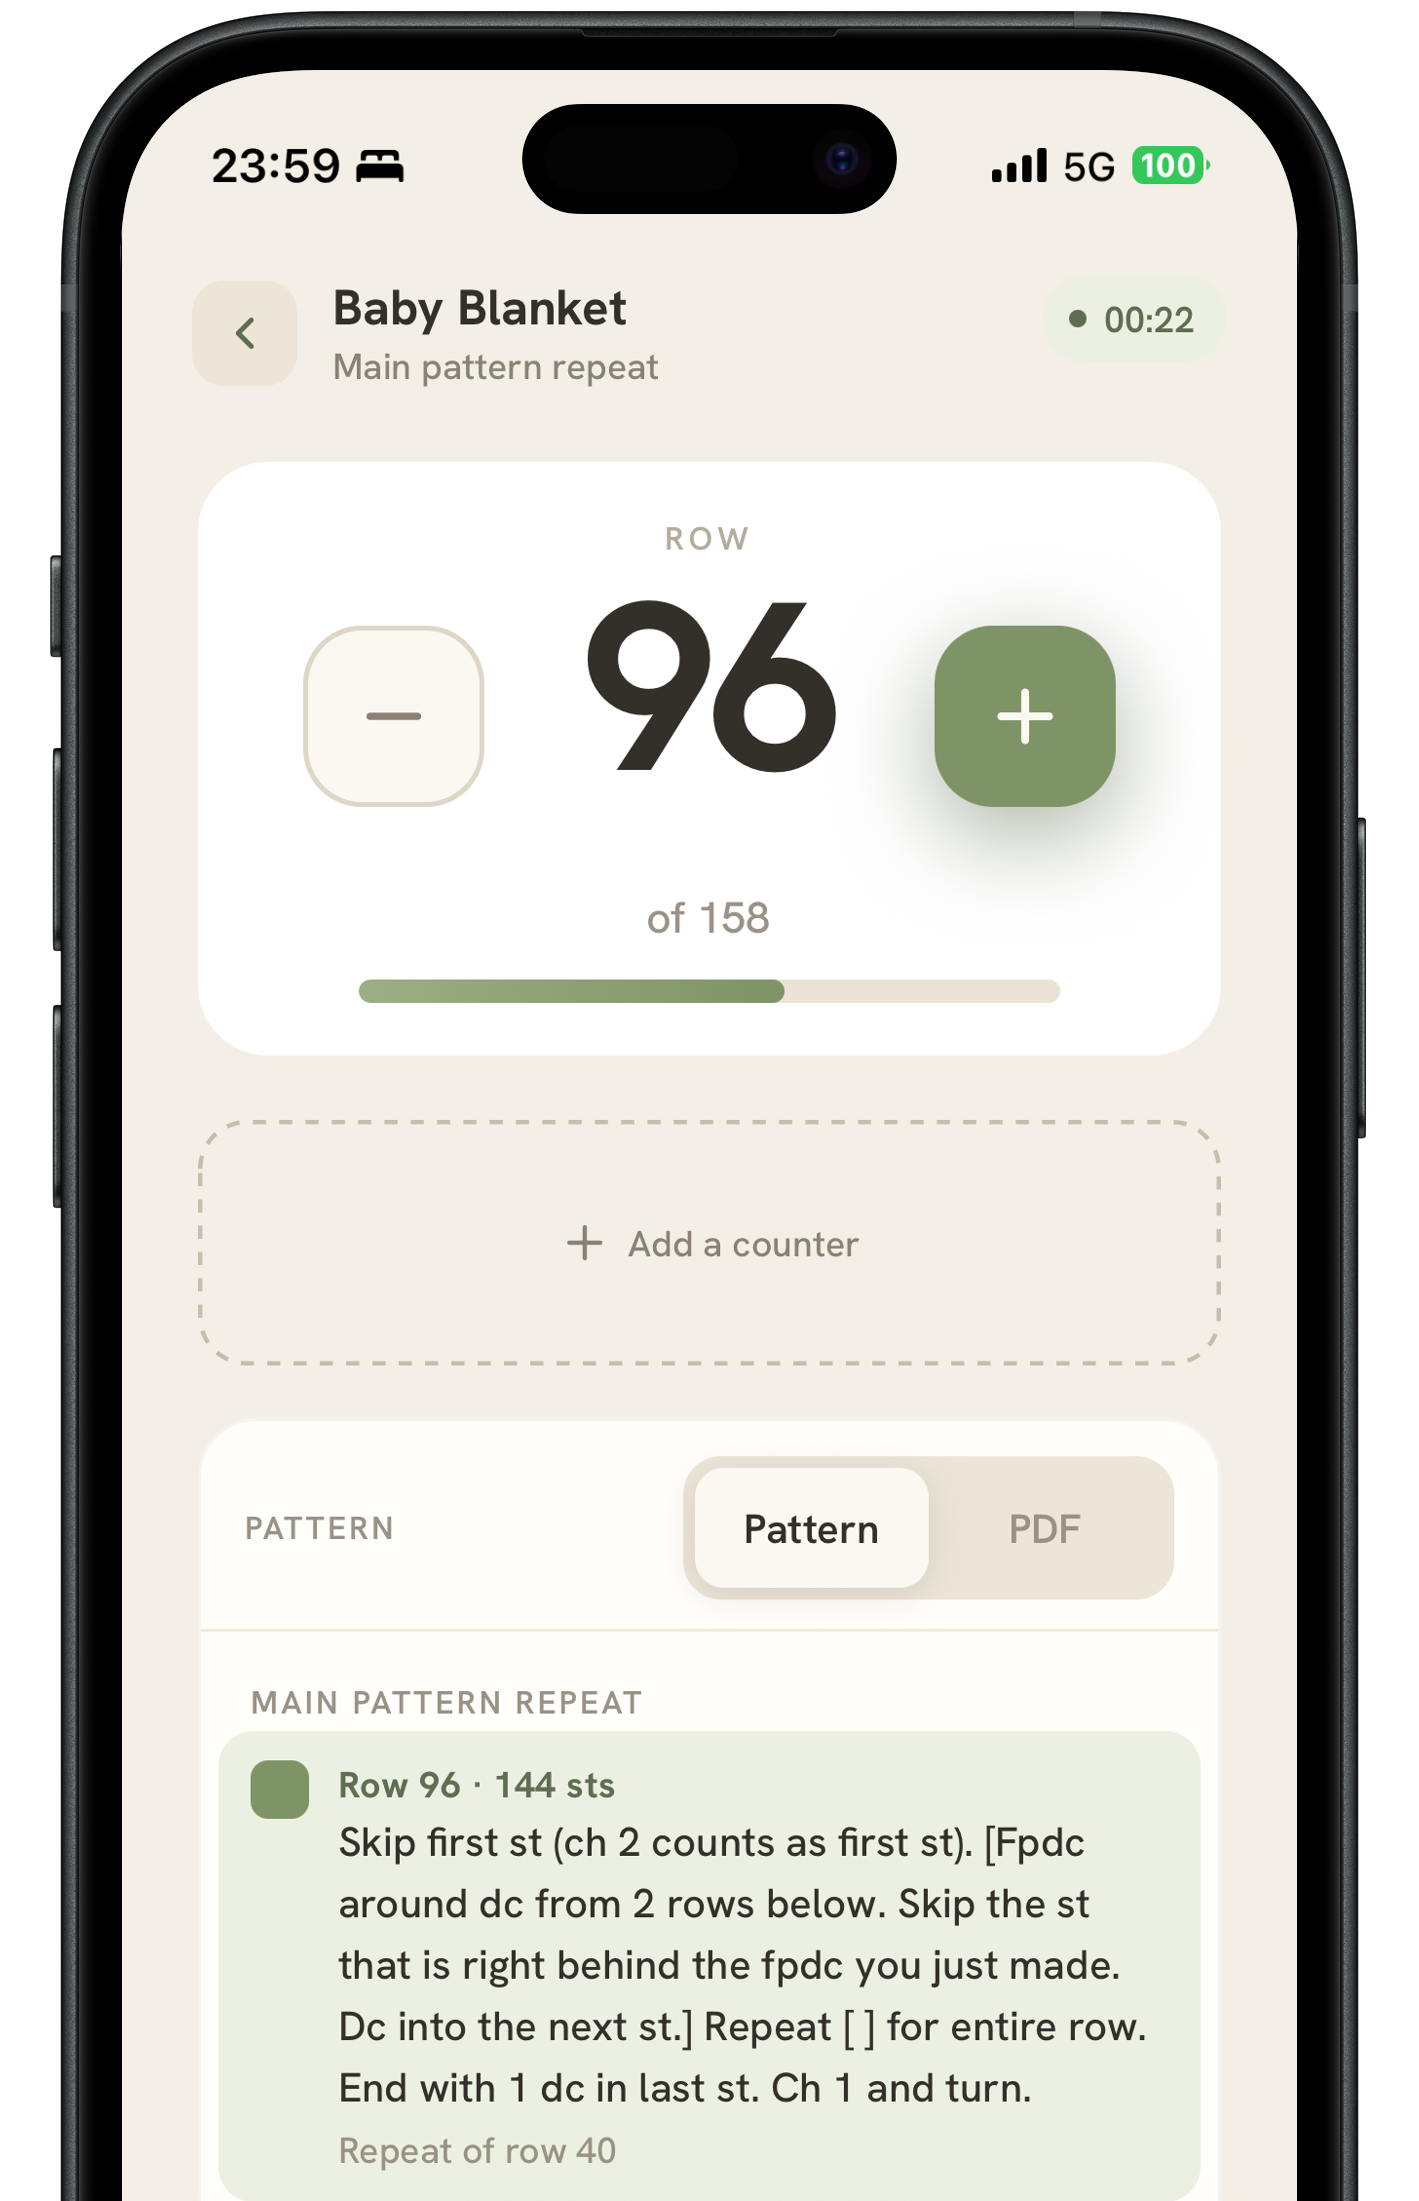
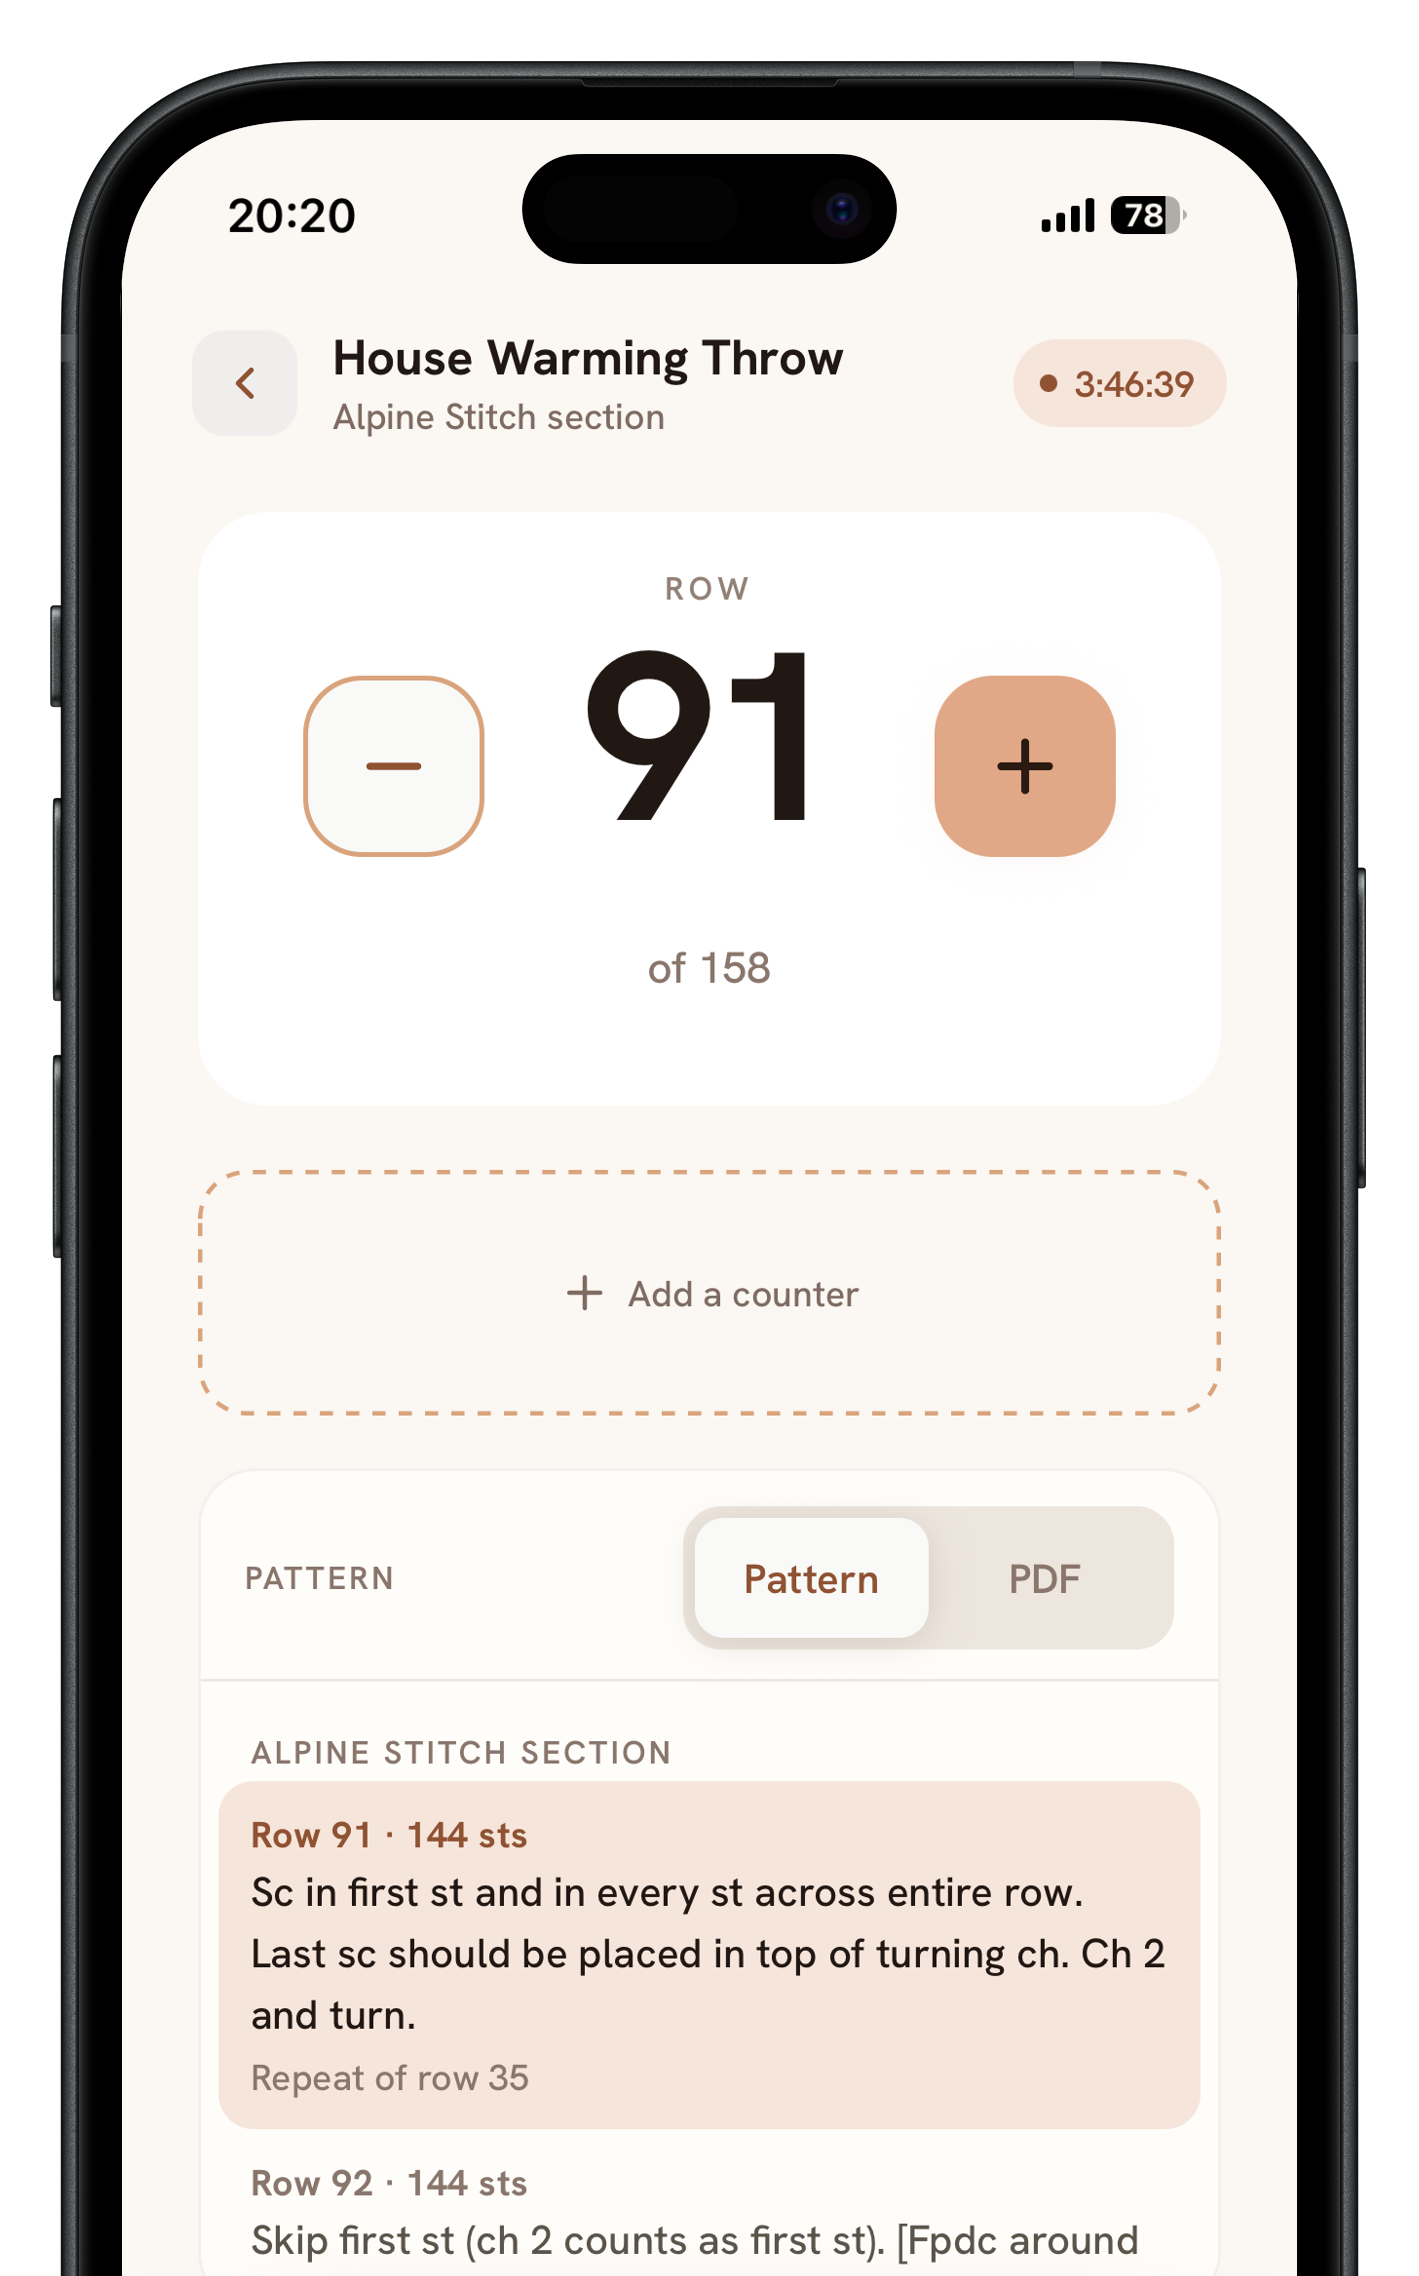
feat(site): new hero mockup, countdown off the phone, "Why" out of the nav
The countdown was absolutely positioned across the bottom of the phone, sitting
directly on top of the parsed-pattern rows — the single thing on the page that
proves the product does what the headline claims. A launch date was covering the
demo.

Moved into the copy column between the promise and the form, which also reads
better as an argument: here's what it does, here's when it opens, here's the
box to join. Verified zero overlap with the phone at 320/390/430/768/1024/1440.

- hero mockup replaced with the founder's new counter shot (1419x2276; height
  attribute corrected from 2201, which was quietly wrong for the old asset too)
- "Why" removed from all three nav lists (header, footer, legal page shell).
  The #why section itself stays — it just isn't a nav destination.

WebKit 320–1440: 6/6 clean.

diff --git a/src/components/Hero.tsx b/src/components/Hero.tsx
@@ -18,7 +18,6 @@ const navLinks = [
   { label: "How it works", href: "#how-it-works" },
   { label: "Pricing", href: "#pricing" },
   { label: "FAQs", href: "#faqs" },
-  { label: "Why", href: "#why" },
 ];
 
 // Founding Member isn't purchasable yet. This number is a MANUAL count the
@@ -130,6 +129,15 @@ export default function Hero() {
               Pick up exactly where you left off.
             </motion.p>
 
+            <motion.div
+              initial={{ opacity: 0, y: 18 }}
+              animate={{ opacity: 1, y: 0 }}
+              transition={{ delay: 0.32, duration: 0.6 }}
+              className="mx-auto mt-7 w-[min(440px,90vw)] lg:mx-0"
+            >
+              <Countdown />
+            </motion.div>
+
             <motion.form
               id="waitlist"
               initial={{ opacity: 0, y: 18 }}
@@ -137,7 +145,7 @@ export default function Hero() {
               transition={{ delay: 0.4, duration: 0.6 }}
               onSubmit={handleSubmit(onSubmit)}
               noValidate
-              className="mx-auto mt-7 w-[min(440px,90vw)] scroll-mt-24 lg:mx-0"
+              className="mx-auto mt-4 w-[min(440px,90vw)] scroll-mt-24 lg:mx-0"
             >
               <div className="flex items-center gap-2 rounded-full border border-white/70 bg-white/70 p-[7px] pl-2 shadow-sm backdrop-blur-xl transition focus-within:ring-2 focus-within:ring-primary focus-within:ring-offset-2 focus-within:ring-offset-heroWash">
                 <label htmlFor="email" className="sr-only">
@@ -245,11 +253,8 @@ export default function Hero() {
                 alt="Skeined app preview"
                 className="block h-auto w-full object-contain"
                 width={1419}
-                height={2201}
+                height={2276}
               />
-              <div className="absolute inset-x-0 bottom-5 z-10 w-full px-2 sm:inset-x-auto sm:right-[100px] sm:bottom-8 sm:w-[118%] sm:px-0">
-                <Countdown />
-              </div>
             </motion.div>
           </div>
         </div>

diff --git a/src/components/Footer.tsx b/src/components/Footer.tsx
@@ -19,7 +19,6 @@ const footerLinks = [
   { label: "How it works", href: "/#how-it-works" },
   { label: "Pricing", href: "/#pricing" },
   { label: "FAQs", href: "/#faqs" },
-  { label: "Why", href: "/#why" },
 ];
 
 export default function Footer() {

diff --git a/src/components/PageShell.tsx b/src/components/PageShell.tsx
@@ -8,7 +8,6 @@ const navLinks = [
   { label: "How it works", href: "/#how-it-works" },
   { label: "Pricing", href: "/#pricing" },
   { label: "FAQs", href: "/#faqs" },
-  { label: "Why", href: "/#why" },
 ];
 
 interface PageShellProps {
